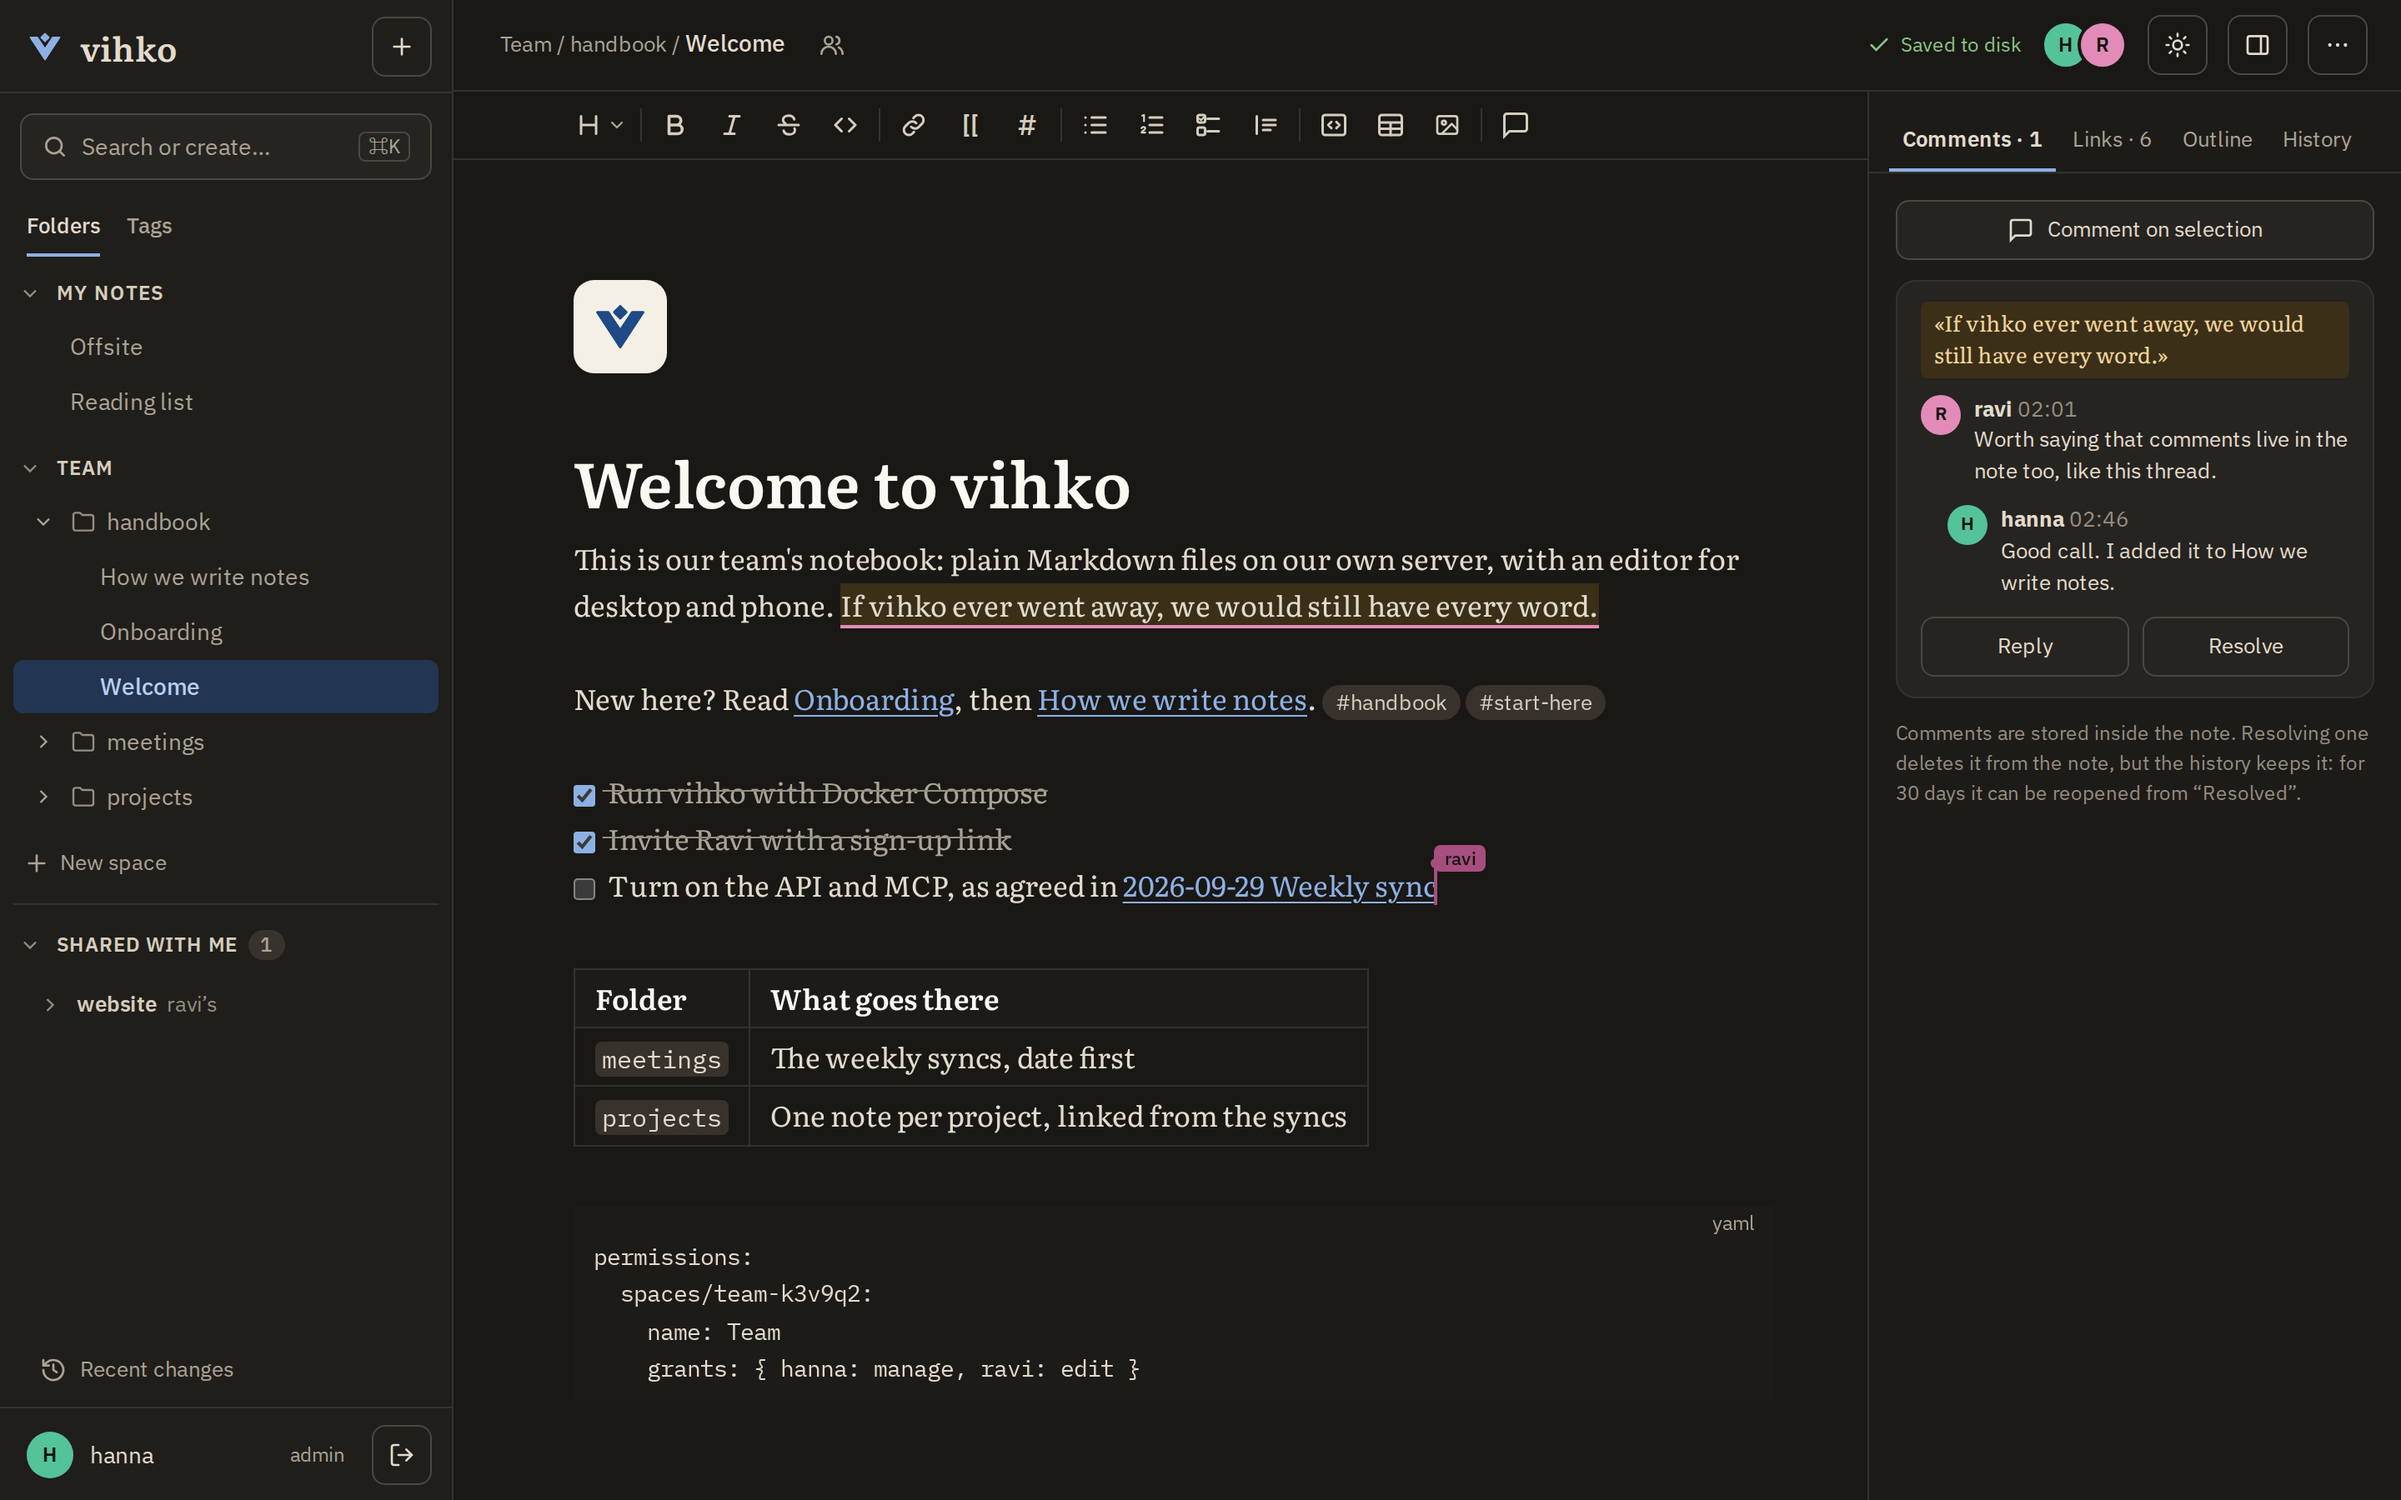
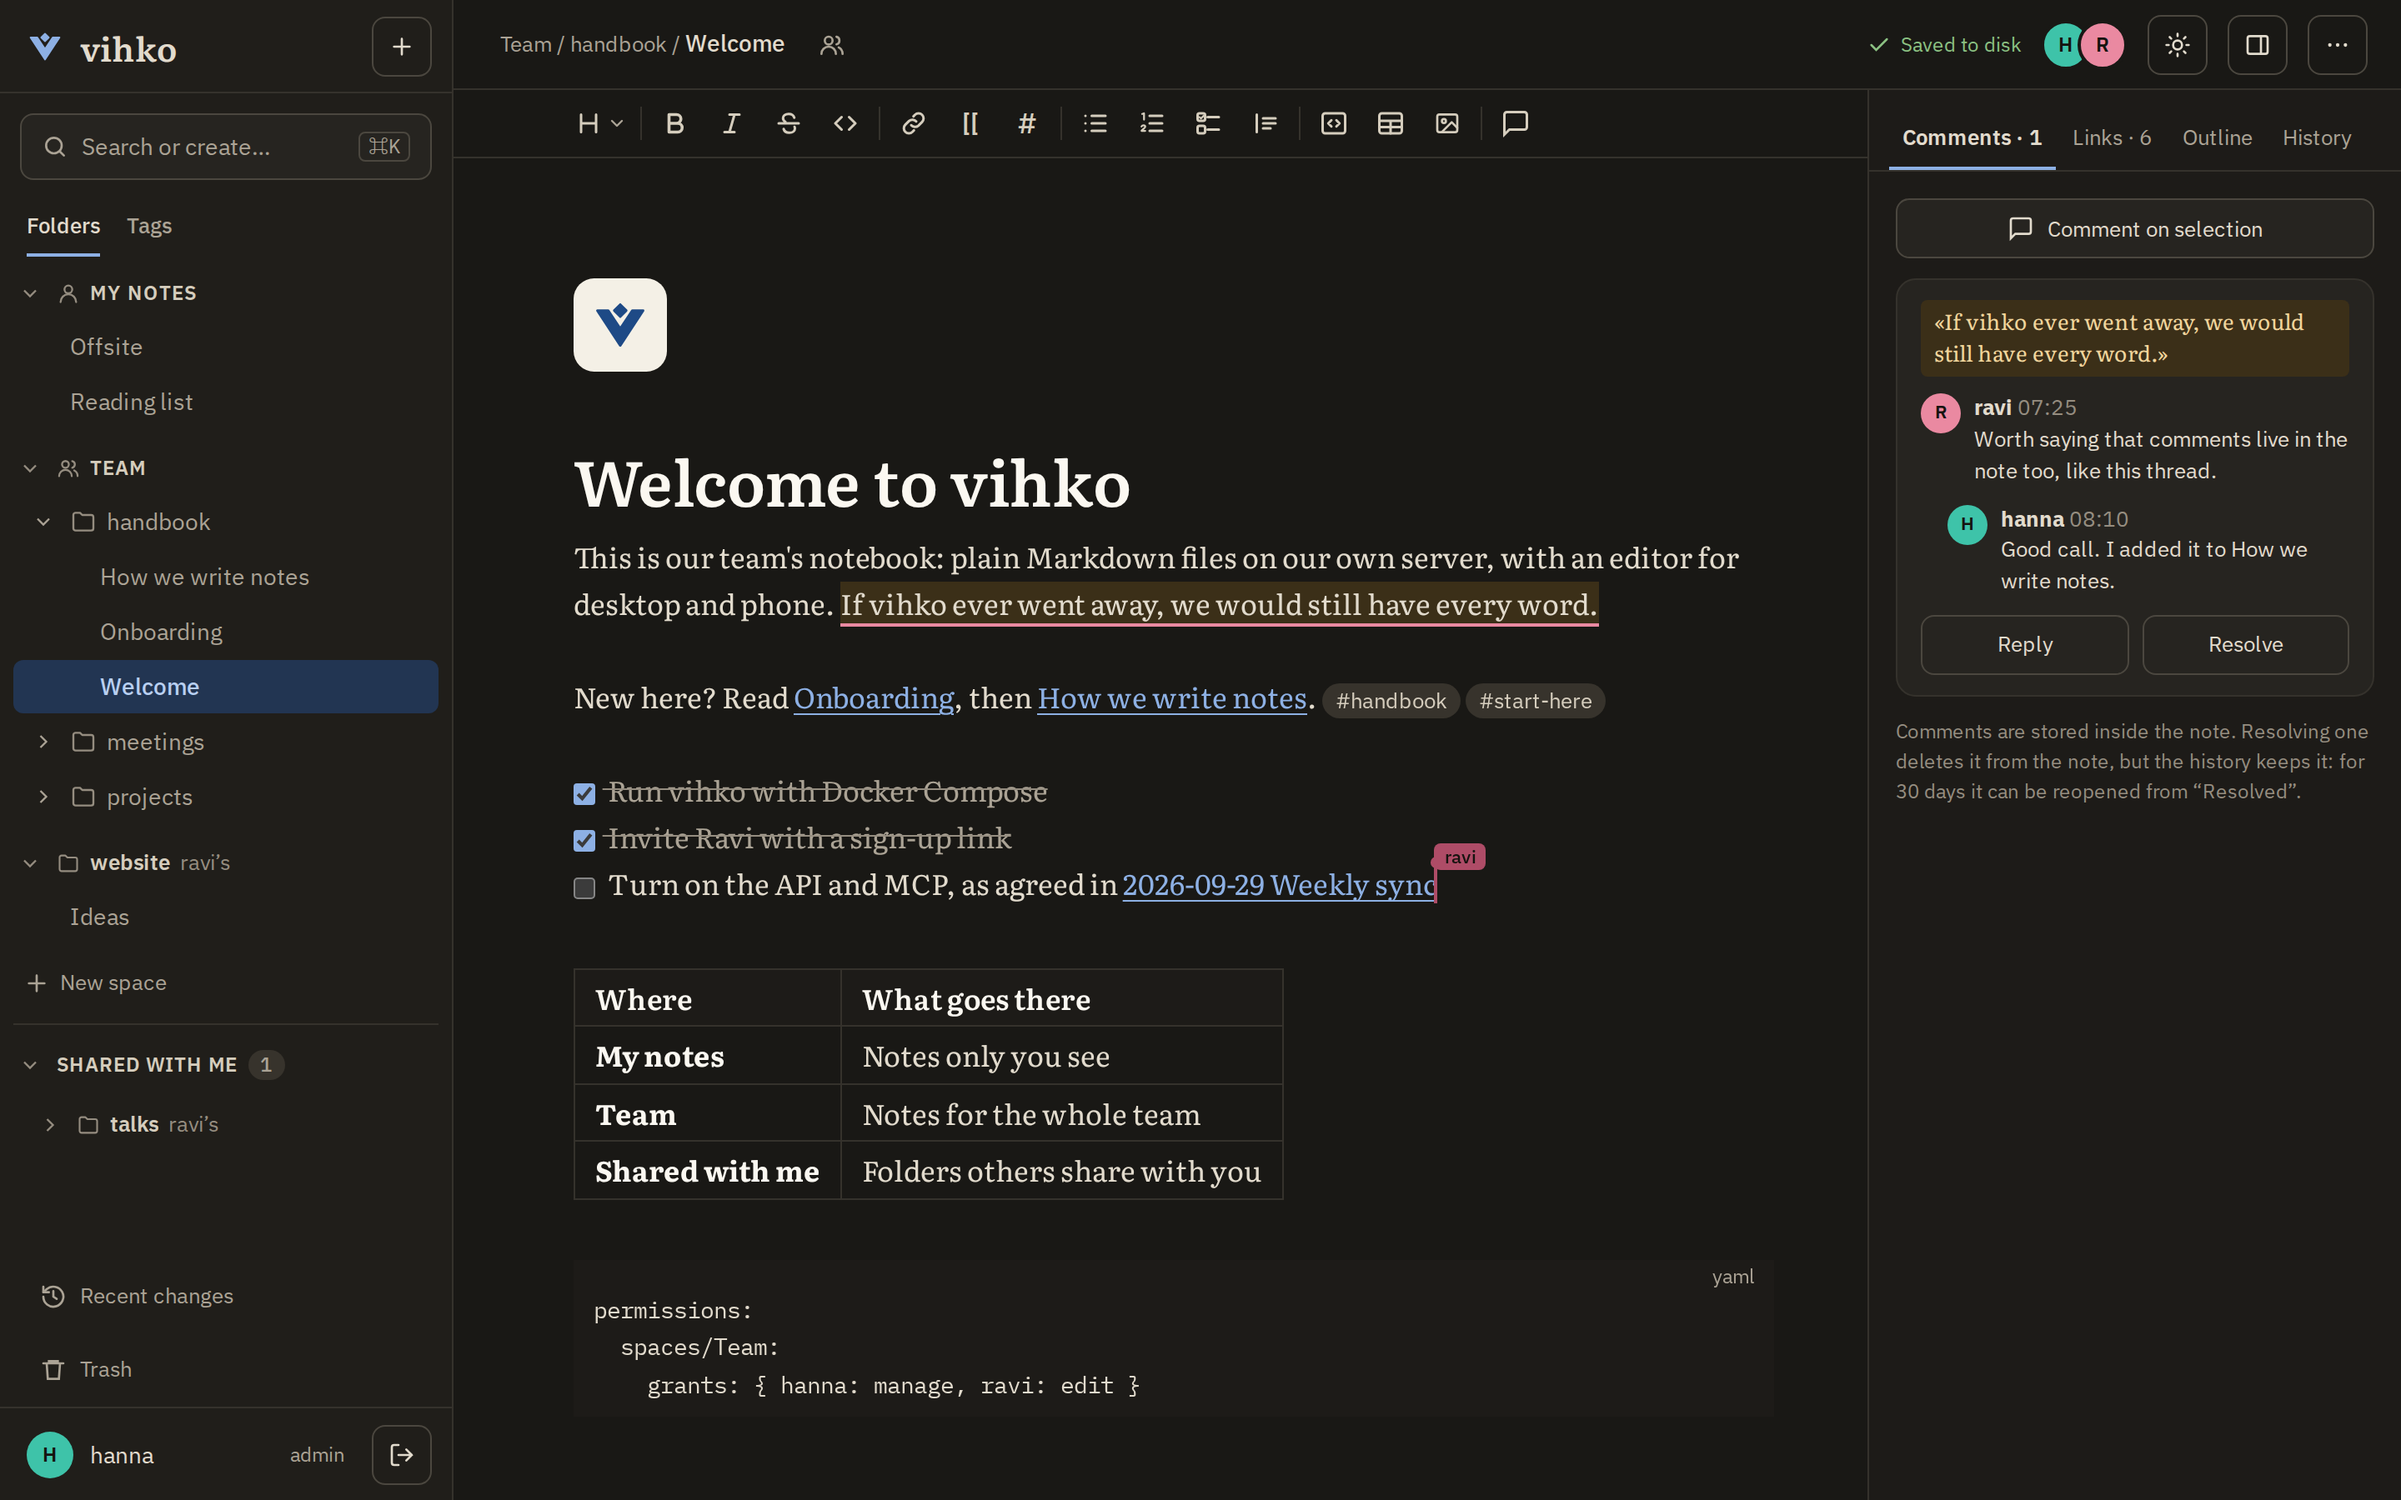
README: screenshots of 0.1.0
Made again with npm run screenshots: the sidebar with its pinned folder,
«Recent changes» and «Trash», and the current format toolbar.

diff --git a/README.md b/README.md
@@ -18,7 +18,7 @@ optionally, from an API and an MCP server.
 
 Your notes stay a folder of `.md` files. If vihko disappears, you lose nothing.
 
-<img src=".github/assets/screenshots/desktop.png" width="900" alt="vihko on a computer, half in the light theme and half in the dark one: on the left, the sidebar with My notes, the shared space Team open on its handbook folder, and Shared with me holding a folder another person shares; in the middle, a note of the Team space with the vihko logo, a highlighted passage, links, tags, a task list, a table, a YAML block that gives the space its name and members, and a second person's cursor; on the right, a comment thread about that passage">
+<img src=".github/assets/screenshots/desktop.png" width="900" alt="vihko on a computer, half in the light theme and half in the dark one: on the left, the sidebar with My notes, the shared space Team open on its handbook folder, a folder another person shares pinned below it, Shared with me holding one more, and Recent changes and Trash at its foot; in the middle, a note of the Team space with the vihko logo, a highlighted passage, links, tags, a task list, a table of where notes go, a YAML block that gives the space its name and members, and a second person's cursor; on the right, a comment thread about that passage">
 
 ## The problem it solves
 
